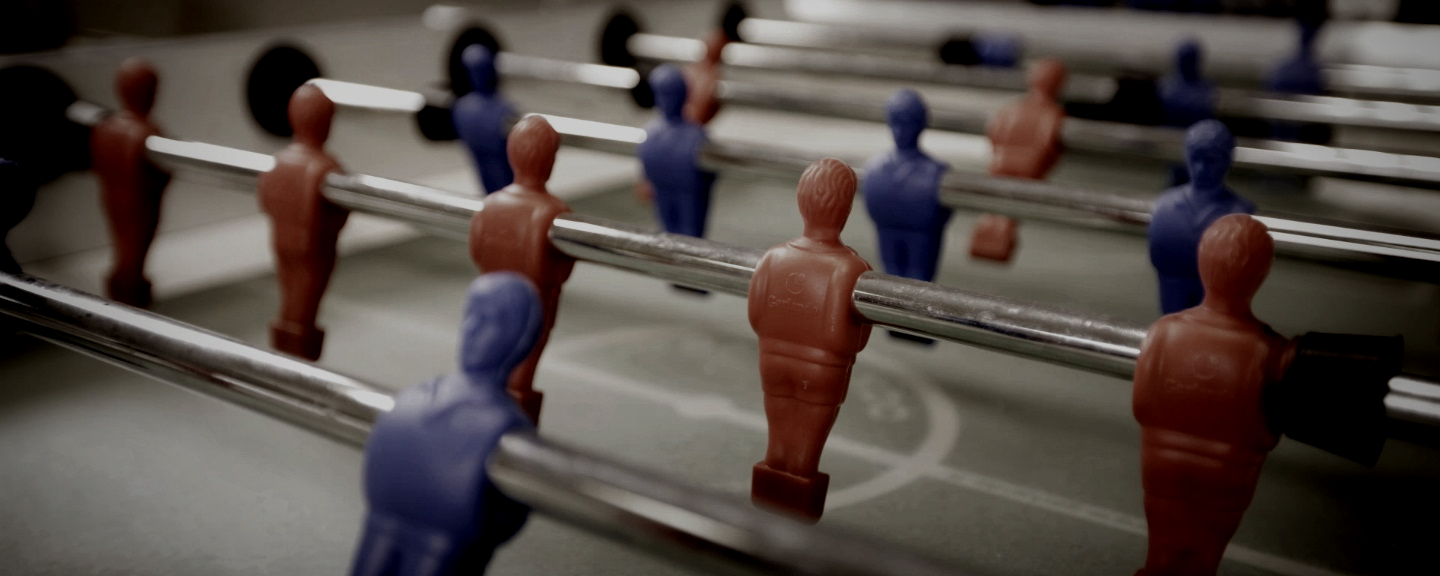
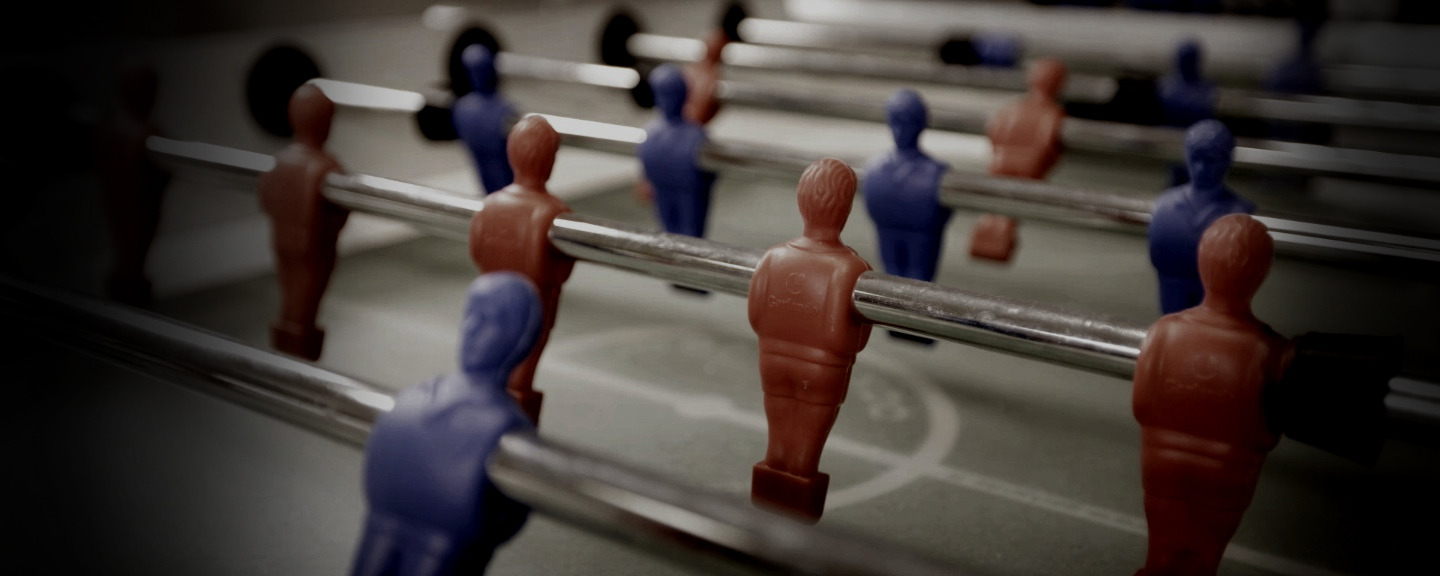
Fix Jumbotron background on hi-res display

Changed region(s): [[0.0, 0.0, 0.2812, 1.0], [0.875, 0.0, 1.0, 0.5938], [0.9375, 0.6562, 1.0, 0.75]]

diff --git a/src/index.js b/src/index.js
@@ -12,8 +12,8 @@ import SettingsLayout from './settings/components/SettingsLayout';
 import TeamAssignment  from './homepage/components/TeamAssignment';
 import IntroLayout from './homepage/components/IntroLayout';
 import ProfileMatches from './profile/components/ProfileMatches';
-import './assets/css/styles.css';
 import './assets/css/bootstrap.min.css';
+import './assets/css/styles.css';
 import './utils/object';
 import './utils/doughnutText';
 import {loadState} from './persistence';

diff --git a/src/homepage/components/IntroLayout.js b/src/homepage/components/IntroLayout.js
@@ -1,10 +1,9 @@
 import React from 'react';
 import { Jumbotron, Grid } from 'react-bootstrap';
-import jumbo from '../../assets/img/jumbotron.jpg';
 import TeamCreationForm from './TeamCreationForm';
 
 export default (props) =>
-    <Jumbotron style={{background: `url(${jumbo})`, color: 'white'}}>
+    <Jumbotron>
         <Grid>
         <h1>Make it funny, again!</h1>
         <p>

diff --git a/src/assets/css/styles.css b/src/assets/css/styles.css
@@ -1,3 +1,10 @@
+.jumbotron {
+    background: black url('../img/jumbotron.jpg') no-repeat scroll right;
+    color: white;
+    background-size: 85%;
+    text-shadow: #444 1px 1px;
+}
+
 .with-margin {
     margin: 15px !important;
 }
